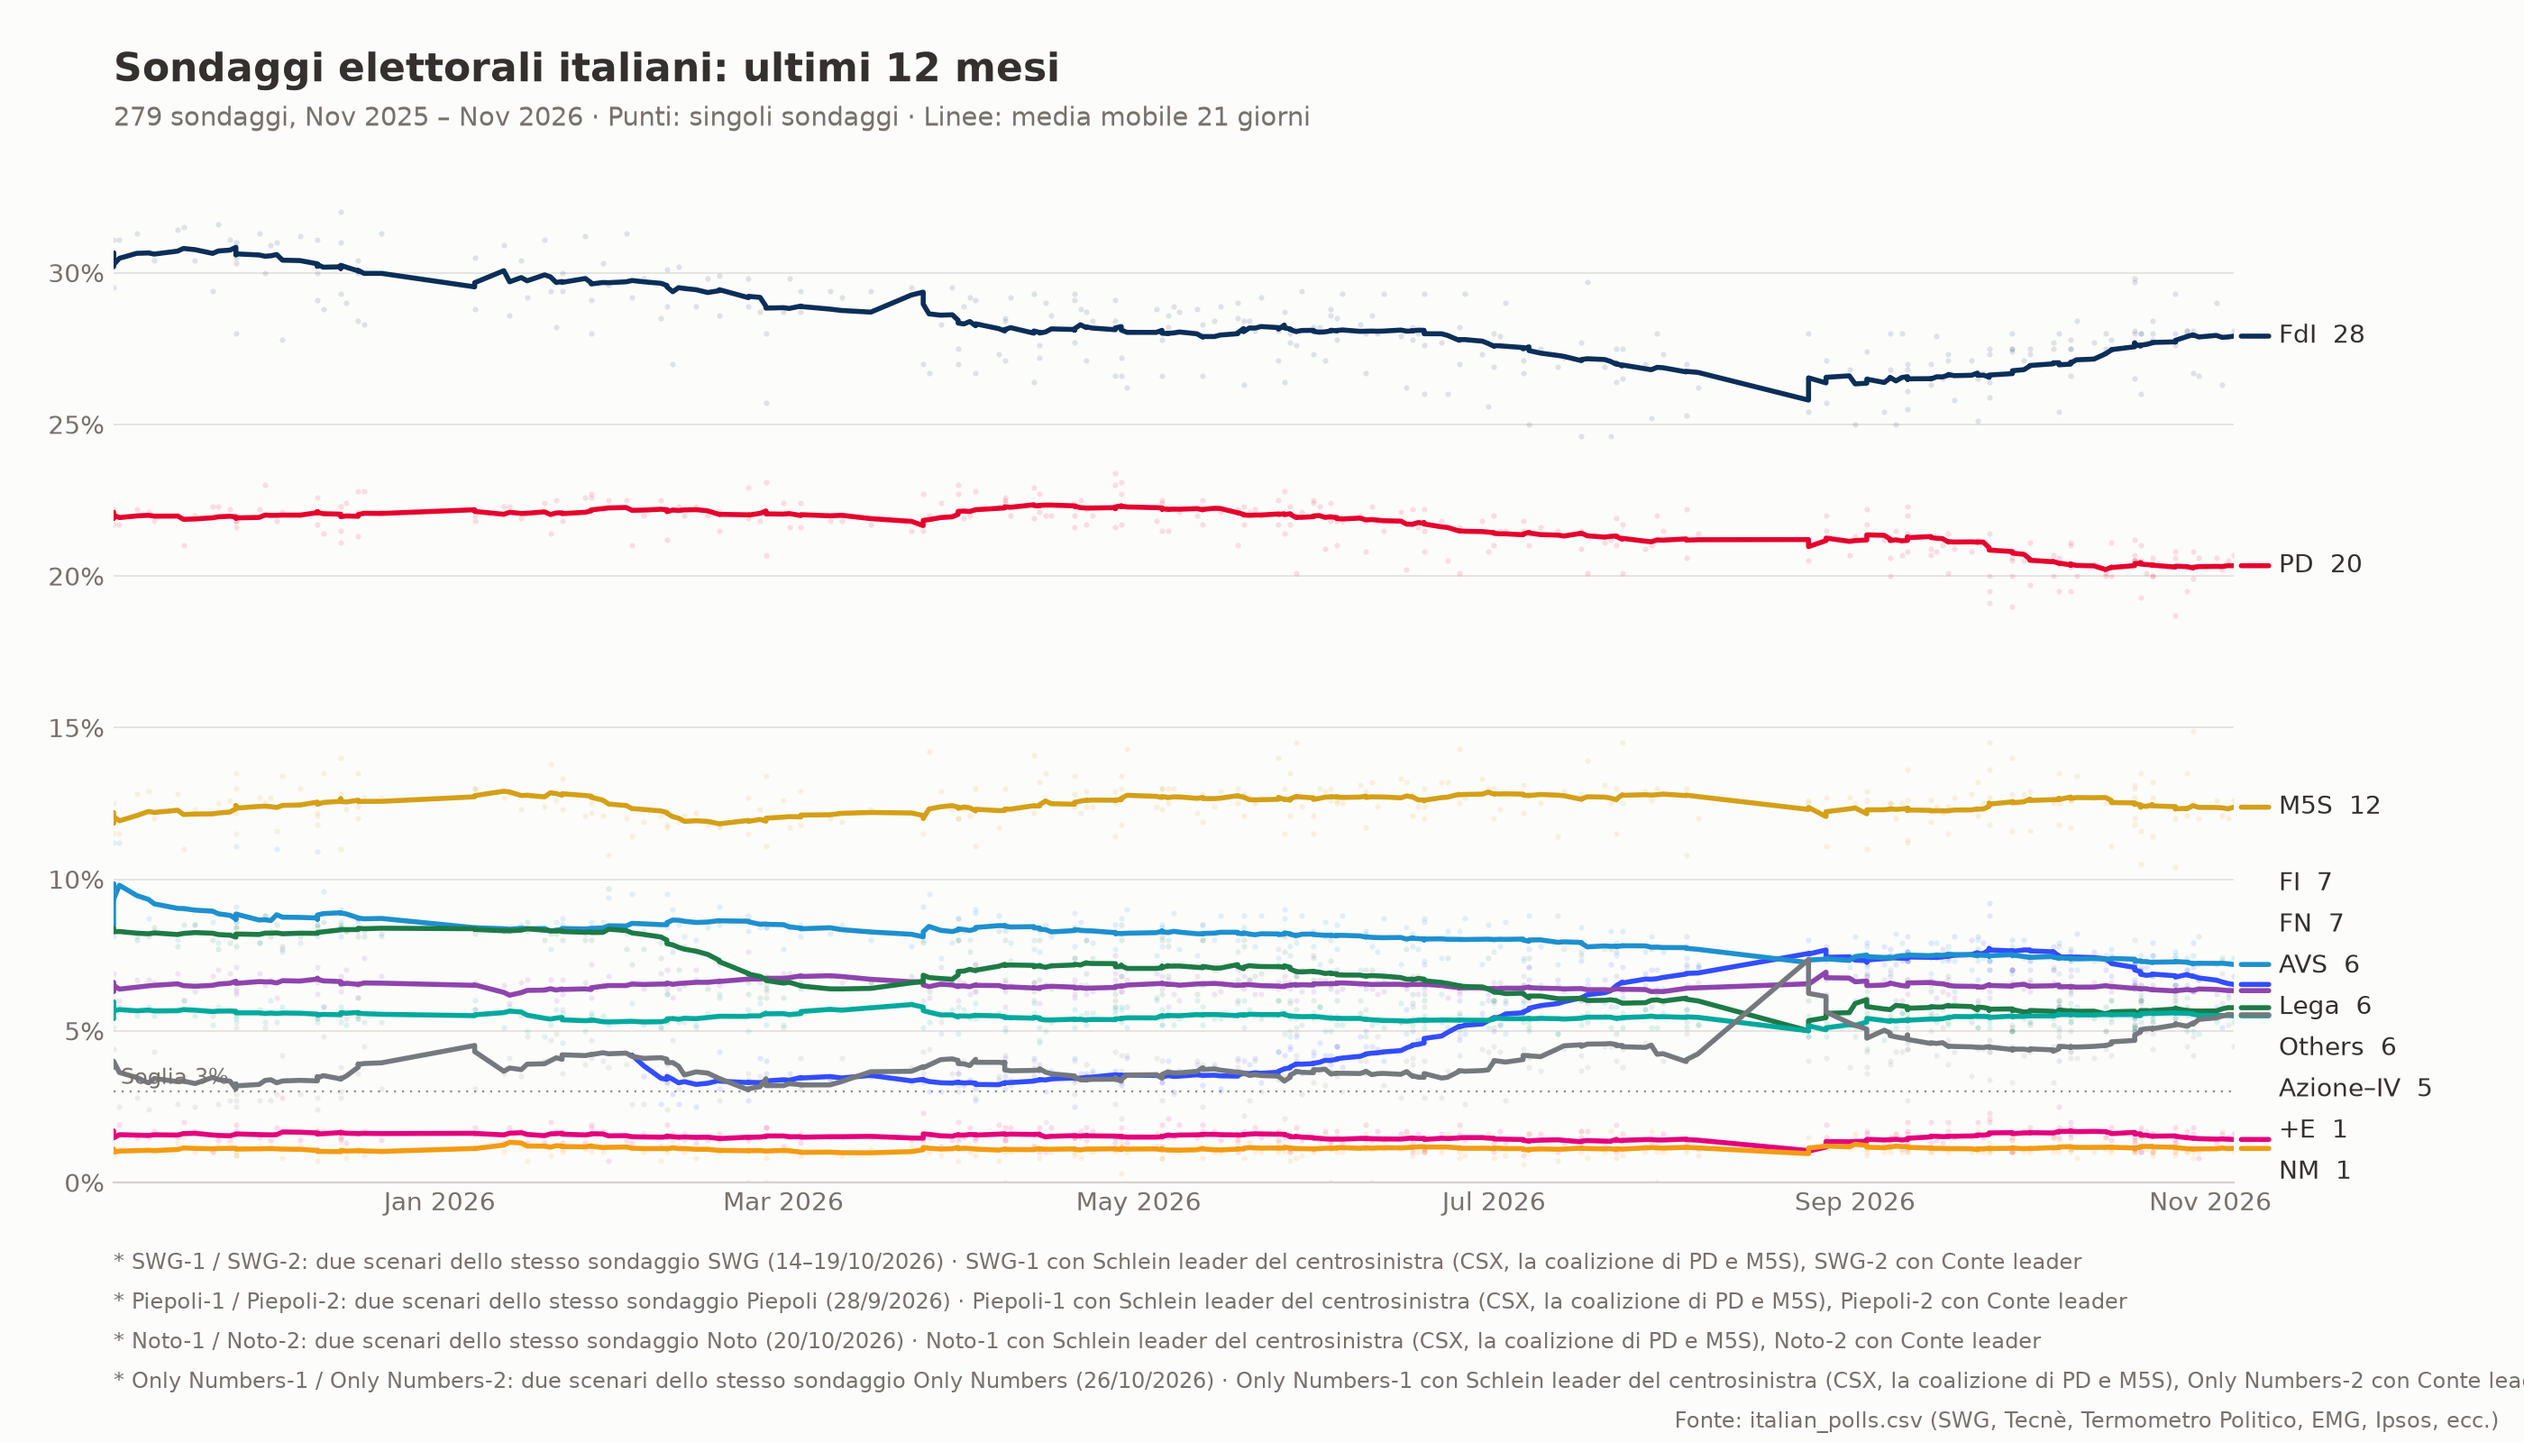
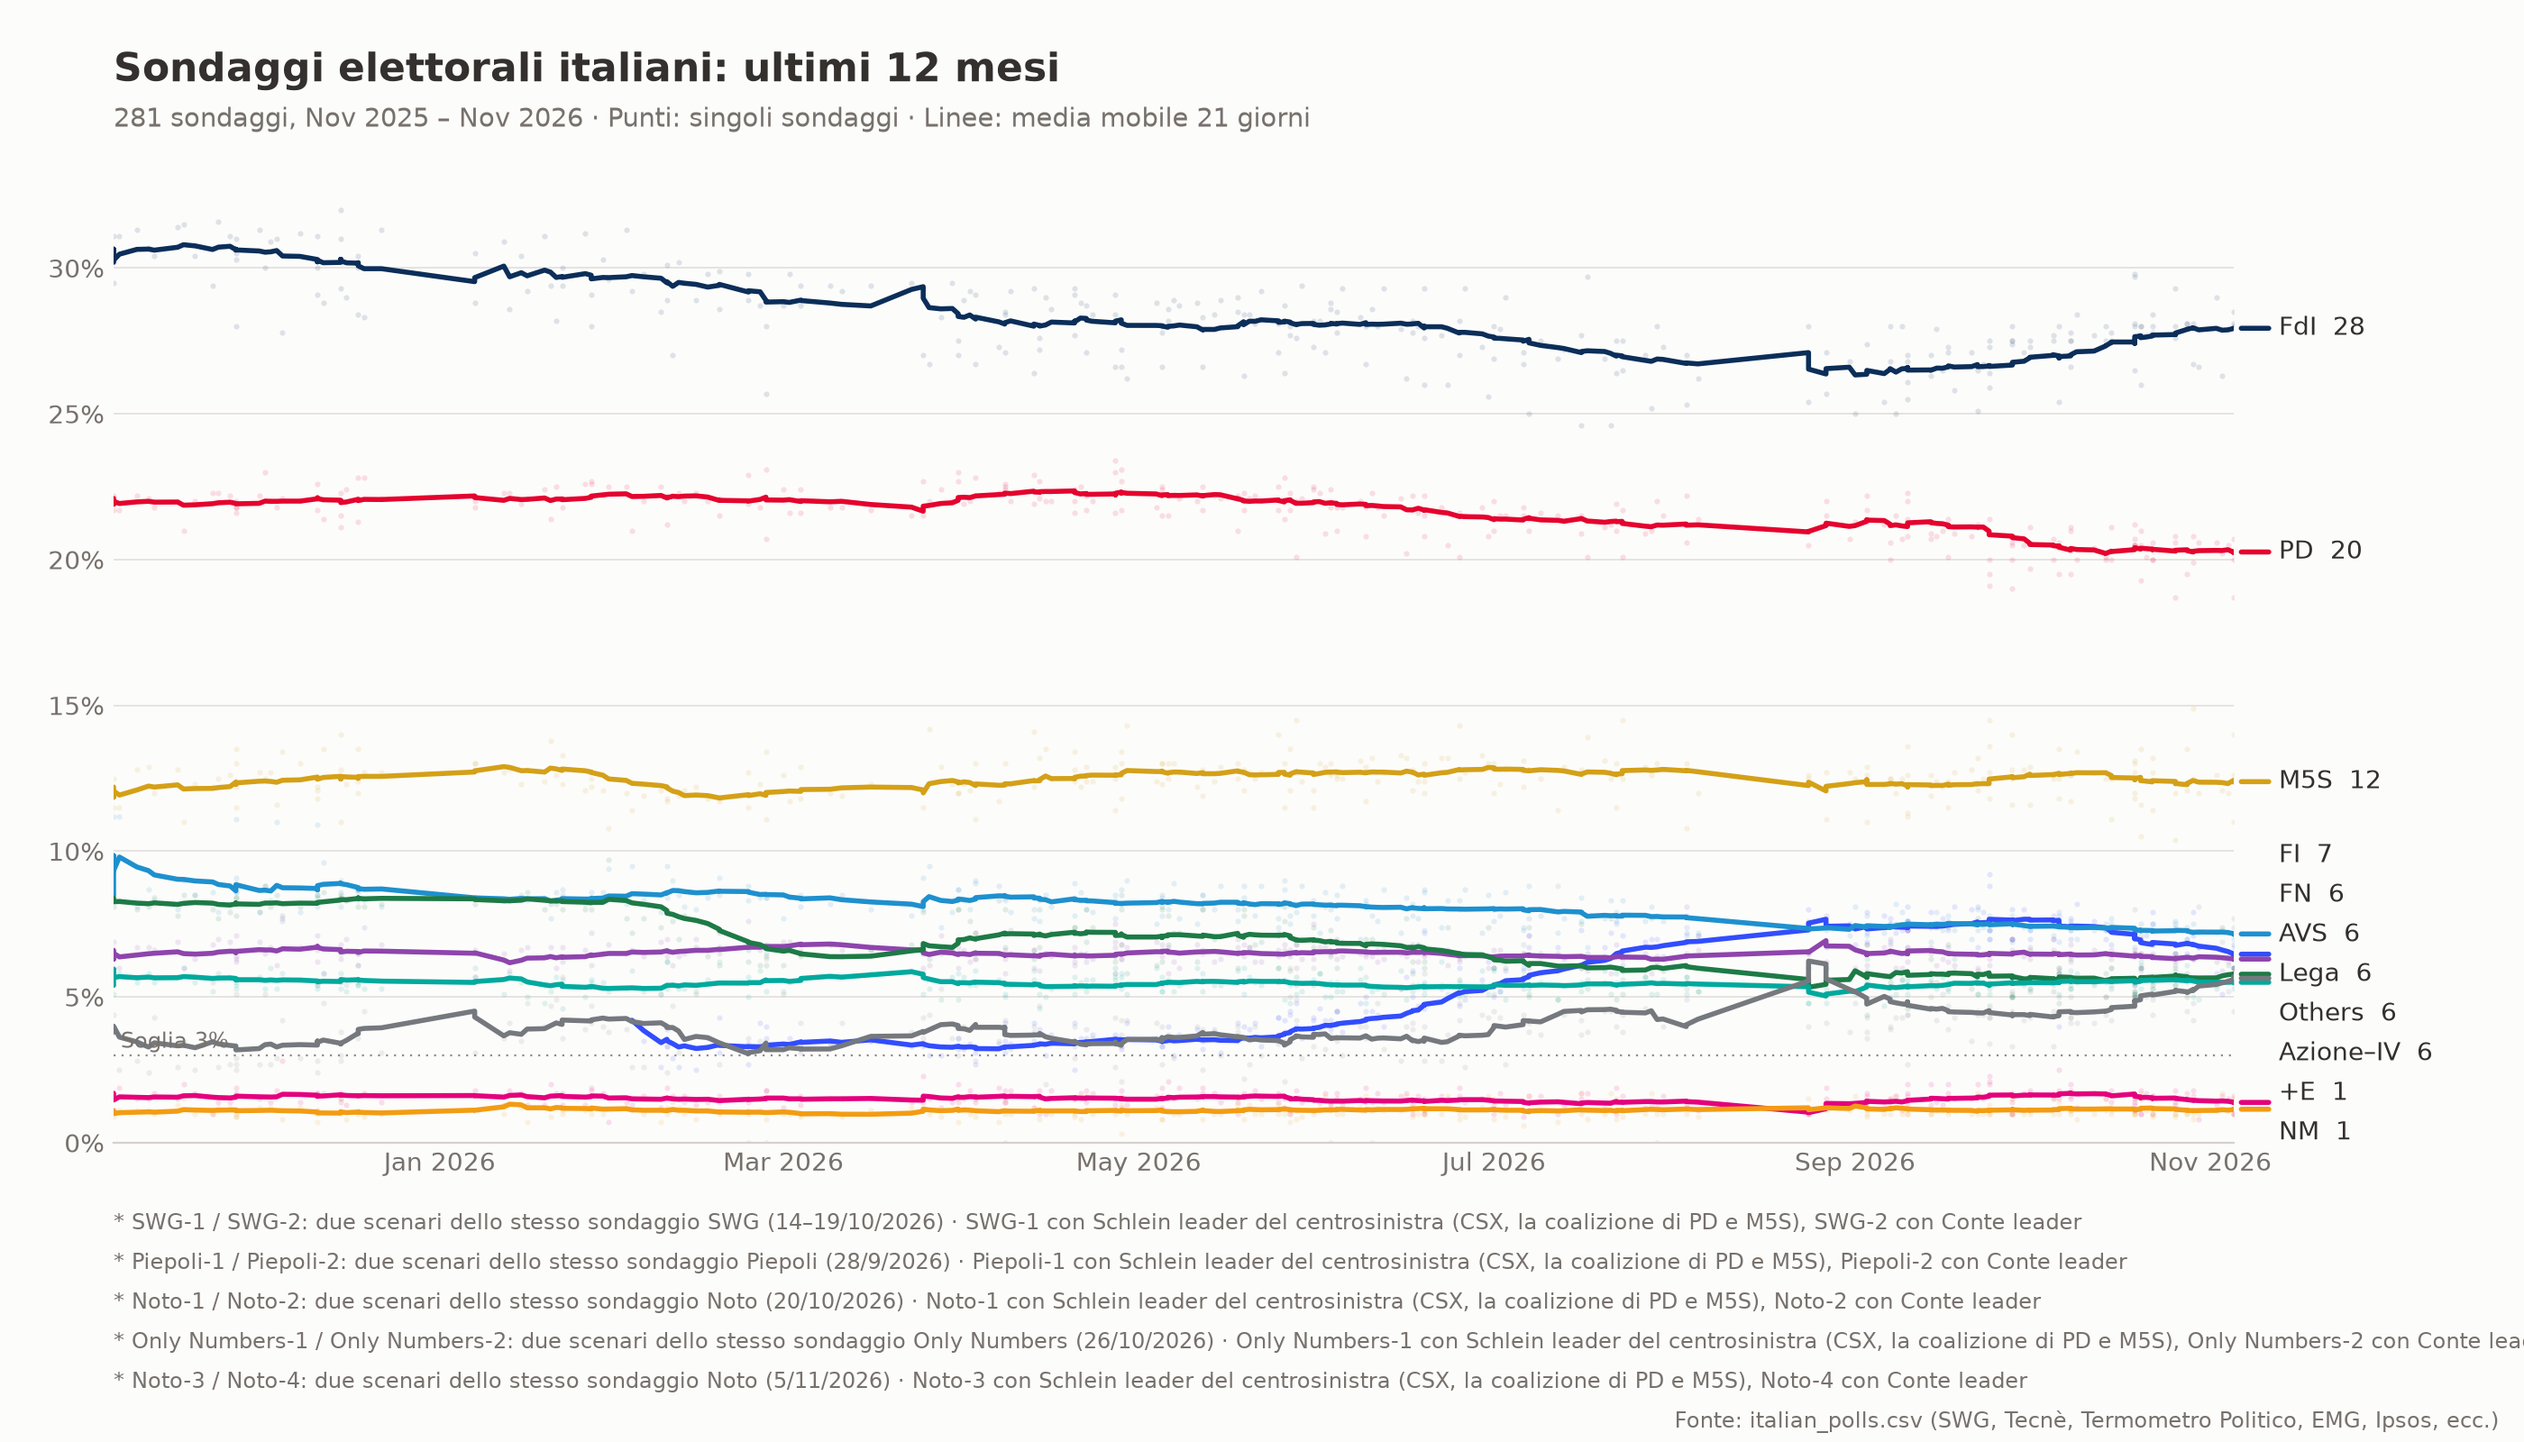
Add Noto poll (2026-11-05, Schlein/Conte CSX-leader scenarios)
Two-scenario poll, tagged Noto-3/Noto-4 (Noto-1/Noto-2 already used for
the 2026-10-20 Noto poll). Footnote added to SCENARIO_NOTES in main.py.

diff --git a/main.py b/main.py
@@ -72,6 +72,11 @@ SCENARIO_NOTES = {
         "Only Numbers-1 con Schlein leader del centrosinistra (CSX, la coalizione di PD e M5S), "
         "Only Numbers-2 con Conte leader"
     ),
+    frozenset({"Noto-3", "Noto-4"}): (
+        "Noto-3 / Noto-4: due scenari dello stesso sondaggio Noto (5/11/2026) · "
+        "Noto-3 con Schlein leader del centrosinistra (CSX, la coalizione di PD e M5S), "
+        "Noto-4 con Conte leader"
+    ),
 }
 
 INK = "#33302e"
